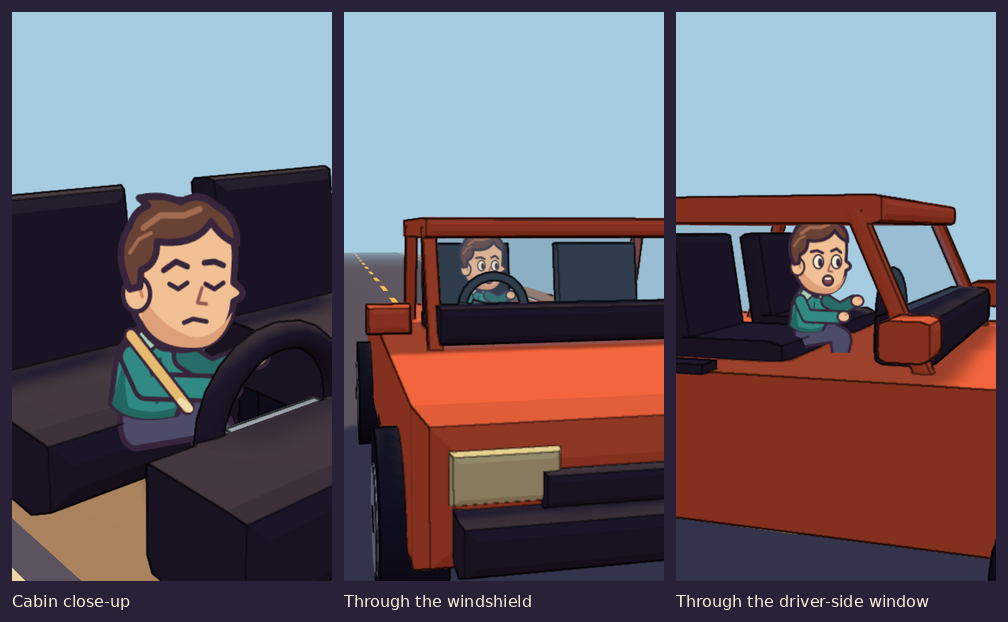
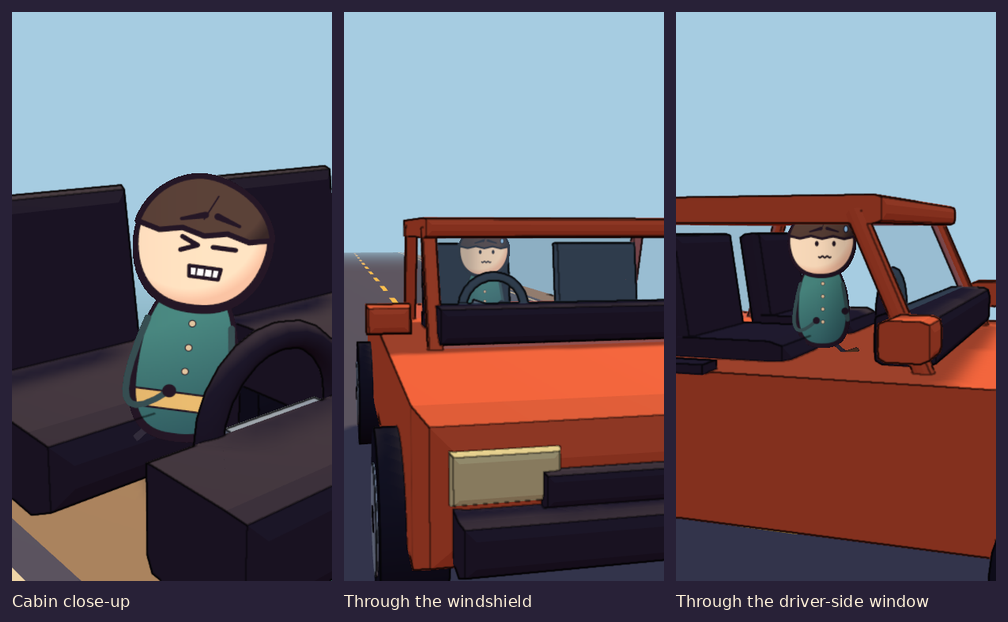
Use the Niagara toon pipeline for the guardrail driver

Changed region(s): [[0.0923, 0.2749, 0.2768, 0.7331], [0.7688, 0.336, 0.8611, 0.5804], [0.4306, 0.3666, 0.5228, 0.4887]]

diff --git a/videos/guardrail-crumple/assets/preview.html b/videos/guardrail-crumple/assets/preview.html
@@ -3,94 +3,11 @@
 <meta charset="utf-8">
 <title>Guardrail asset review</title>
 <style>
-  body { margin: 0; background: #241e32; color: #fff3d5; font: 16px system-ui; }
-  main { display: grid; grid-template-columns: repeat(4, 240px); gap: 8px; padding: 8px; }
-  figure { margin: 0; }
-  canvas { display: block; width: 240px; height: 426px; }
-  figcaption { padding: 6px 2px; }
+  body { margin: 20px; background: #282137; color: #fff2da; font: 16px system-ui; }
+  img { max-width: 100%; height: auto; display: block; }
 </style>
-<script type="importmap">
-{"imports":{"three":"../../../../animated-shorts-runtime/node_modules/three/build/three.module.js"}}
-</script>
-<main></main>
-<script type="module">
-import * as THREE from 'three';
-import {createCar, createCliffRoad, createDischargedSteel, createGuardrail} from './models.mjs';
-import {createDriver, createImpactEffect} from './cards.mjs';
-
-const renderer = new THREE.WebGLRenderer({antialias: true, preserveDrawingBuffer: true});
-renderer.setSize(480, 852);
-renderer.shadowMap.enabled = true;
-renderer.shadowMap.type = THREE.PCFSoftShadowMap;
-const scene = new THREE.Scene();
-scene.background = new THREE.Color('#a6cce1');
-scene.fog = new THREE.Fog('#a6cce1', 26, 75);
-const fill = new THREE.HemisphereLight('#dbe5ff', '#8d605d', 1.7);
-const sun = new THREE.DirectionalLight('#ffe3ae', 2.4);
-sun.position.set(8, 15, -7);
-sun.castShadow = true;
-sun.shadow.mapSize.set(1024, 1024);
-Object.assign(sun.shadow.camera, {left: -16, right: 16, top: 16, bottom: -16});
-sun.shadow.normalBias = .02;
-scene.add(fill, sun, createCliffRoad());
-const car = createCar();
-const driver = createDriver();
-const rail = createGuardrail({curved: true});
-const strip = createDischargedSteel();
-const impact = createImpactEffect();
-car.interior.add(driver.card);
-rail.head.add(strip.root);
-rail.root.position.x = 3.26;
-scene.add(car.root, rail.root, impact.root);
-const camera = new THREE.PerspectiveCamera(39, 480 / 852, .04, 140);
-camera.layers.enable(3);
-
-function capture(label, position, target) {
-  camera.position.set(...position);
-  camera.lookAt(...target);
-  camera.updateMatrixWorld();
-  driver.faceCamera(camera);
-  renderer.render(scene, camera);
-  const canvas = document.createElement('canvas');
-  canvas.width = 480;
-  canvas.height = 852;
-  canvas.getContext('2d').drawImage(renderer.domElement, 0, 0);
-  const figure = document.createElement('figure');
-  const caption = document.createElement('figcaption');
-  caption.textContent = label;
-  figure.append(canvas, caption);
-  document.querySelector('main').append(figure);
-}
-
-rail.root.visible = false;
-car.root.position.set(4.2, -.8, 9.4);
-car.root.rotation.set(.24, .72, -.2);
-capture('Cliff and opening skid', [13, 8, -2], [2, -2, 10]);
-
-rail.root.visible = true;
-rail.setTerminal({modern: false});
-rail.oldEnd.visible = false;
-rail.setBeam({flex: .25, contact: 7.5});
-car.root.position.set(2.19, .01, 7.1);
-car.root.rotation.set(0, .06, 0);
-impact.root.position.set(3.14, .5, 7.3);
-impact.setProgress(.32);
-capture('Side hit and local flex', [7.6, 3.8, 1.9], [2.45, .55, 7]);
-
-impact.setProgress(0);
-rail.setTerminal({modern: false});
-car.root.position.set(3.12, .01, -2.03);
-car.root.rotation.set(0, 0, 0);
-driver.setPose('brace', true);
-car.bumper.rotation.y = .16;
-capture('Exposed terminal and driver', [-.42, 2.22, 1.5], [3.25, .8, -1.33]);
-
-rail.setTerminal({travel: 3.1, open: true});
-strip.setLength(3.1);
-driver.setPose('peek');
-car.root.position.set(3.12, .01, .92);
-car.bumper.rotation.y = 0;
-capture('Sliding head and steel strip', [5.65, 2.05, 4.35], [3.00, .56, 3]);
-document.body.dataset.status = 'rendered';
-</script>
+<h1>Guardrail asset review</h1>
+<img src="../previews/remotion-first-stills.png" alt="Five Remotion stills of the guardrail scene">
+<h2>Driver and window views</h2>
+<img src="../previews/driver-window-review.png" alt="Driver in the cabin, through the windshield, and through the driver-side window">
 </html>

diff --git a/videos/guardrail-crumple/assets/driver.ts b/videos/guardrail-crumple/assets/driver.ts
@@ -1,0 +1,88 @@
+import * as THREE from 'three';
+import {bodyFront, Pen, PARENT, type Expr, type Outfit} from '../../../templates/bridge/toon';
+import {cardShade, CARD_K} from '../../../templates/bridge/cardshade';
+import {NOINK} from '../../../templates/bridge/ink';
+
+type Pose = 'steer' | 'brace' | 'peek';
+
+const outfit: Outfit = {
+  ...PARENT, jacket: '#498982', pants: '#444758', hair: '#594138', buttons: '#dfc5a0',
+};
+
+export function createDriver() {
+  const canvas = document.createElement('canvas');
+  canvas.width = 600;
+  canvas.height = 1000;
+  const context = canvas.getContext('2d')!;
+  const texture = new THREE.CanvasTexture(canvas);
+  texture.colorSpace = THREE.SRGBColorSpace;
+  // Use the lower portion of the shared standing-card canvas for the seated pose.
+  texture.repeat.y = .58;
+  const material = cardShade(new THREE.MeshLambertMaterial({
+    map: texture, alphaTest: .46, side: THREE.DoubleSide,
+  }));
+  const card = new THREE.Mesh(new THREE.PlaneGeometry(.66, .638), material);
+  card.layers.set(NOINK);
+  card.position.set(-.4, 1.16, .075);
+  card.receiveShadow = true;
+  card.onBeforeRender = renderer => {
+    CARD_K.uPx.value = (renderer.getRenderTarget()?.height ?? renderer.domElement.height) / 1920;
+  };
+
+  const worldPosition = new THREE.Vector3();
+  const toCamera = new THREE.Vector3();
+  const carRotation = new THREE.Quaternion();
+  const worldFacing = new THREE.Quaternion();
+  const up = new THREE.Vector3(0, 1, 0);
+  let pose: Pose = 'steer';
+  let belt = false;
+  let steering = -.32;
+  let facing: -1 | 0 | 1 = 0;
+
+  function redraw() {
+    const expression: Record<Pose, Expr> = {steer: 'nervous', brace: 'pained', peek: 'pained'};
+    context.clearRect(0, 0, canvas.width, canvas.height);
+    bodyFront(new Pen(context), {...outfit, sash: belt ? '#e6bb70' : undefined}, {
+      mode: 'sit',
+      expr: expression[pose],
+      blink: pose === 'brace',
+      facing,
+      look: facing * .65,
+      headTilt: pose === 'peek' ? -5 : 0,
+      tilt: pose === 'brace' ? facing * 8 : 0,
+      steering,
+      seed: 9,
+    });
+    texture.needsUpdate = true;
+  }
+
+  function setPose(nextPose: Pose, fastened = false, wheelAngle = -.32) {
+    pose = nextPose;
+    belt = fastened;
+    steering = wheelAngle;
+    redraw();
+  }
+
+  function faceCamera(camera: THREE.Camera) {
+    card.getWorldPosition(worldPosition);
+    camera.getWorldPosition(toCamera).sub(worldPosition);
+    if (card.parent) card.parent.getWorldQuaternion(carRotation).invert();
+    else carRotation.identity();
+    toCamera.applyQuaternion(carRotation);
+    card.quaternion.copy(worldFacing.setFromAxisAngle(up, Math.atan2(toCamera.x, toCamera.z)));
+    const nextFacing = toCamera.x < -.6 ? 1 : toCamera.x > .6 ? -1 : 0;
+    if (nextFacing !== facing) {
+      facing = nextFacing;
+      redraw();
+    }
+  }
+
+  redraw();
+  return {
+    card, setPose, faceCamera,
+    dispose() {
+      texture.dispose();
+      material.dispose();
+    },
+  };
+}

diff --git a/templates/bridge/toon.ts b/templates/bridge/toon.ts
@@ -434,7 +434,7 @@ const BUILD: Record<Build, { a: number; torso: number; legs: number; tw: number 
 
 export type FrontOpts = {
   phase?: number; expr?: Expr; mode?: "march" | "stroll" | "stand" | "sit" | "fall"; look?: number; blink?: boolean | number; lift?: number;
-  prop?: Prop; tilt?: number; headTilt?: number; wave?: number;
+  prop?: Prop; tilt?: number; headTilt?: number; wave?: number; steering?: number;
   /** canvas angle the key light comes FROM (painted crescent + thick outline side) */
   light?: number; facing?: -1 | 0 | 1; seed?: number;
 };
@@ -510,7 +510,14 @@ export const bodyFront = (p: Pen, o: Outfit, opts: FrontOpts) => {
   const rifle = !!o.rifle && (mode === "march" || mode === "stand" || mode === "stroll");
   type Arm = { pts: [P2, P2, P2]; front: boolean };
   const arms: Arm[] = [];
-  if (mode === "sit") for (const side of [-1, 1]) arms.push({ pts: [sh(side), [tcx + side * (1.1 * T.a + 6 * u), sh(side)[1] + 0.4 * HH], [tcx + side * (1.2 * T.a + 10 * u), torsoBot + 0.04 * HH]], front: false });
+  if (mode === "sit" && opts.steering !== undefined) {
+    const angle = opts.steering;
+    for (const side of [-1, 1]) {
+      const shoulder = sh(side);
+      const hand: P2 = [tcx + (14 * facing + side * 23 * Math.cos(angle)) * u, chin + (61 + side * 23 * Math.sin(angle)) * u];
+      arms.push({ pts: [shoulder, [shoulder[0] + side * 8 * u, hand[1] + 10 * u], hand], front: true });
+    }
+  } else if (mode === "sit") for (const side of [-1, 1]) arms.push({ pts: [sh(side), [tcx + side * (1.1 * T.a + 6 * u), sh(side)[1] + 0.4 * HH], [tcx + side * (1.2 * T.a + 10 * u), torsoBot + 0.04 * HH]], front: false });
   else if (mode === "fall") for (const side of [-1, 1]) arms.push({ pts: [sh(side), [tcx + side * (1.15 * T.a + 12 * u), sh(side)[1] - 0.25 * HH], [tcx + side * (1.3 * T.a + 24 * u), sh(side)[1] - 0.68 * HH]], front: false });
   else {
     arms.push({ pts: prop === "shako" ? hang(-1, 0) : hang(-1, -sw), front: false });

diff --git a/videos/guardrail-crumple/assets/FirstStills.tsx b/videos/guardrail-crumple/assets/FirstStills.tsx
@@ -4,7 +4,8 @@ import * as THREE from 'three';
 import {EffectComposer, RenderPass} from 'postprocessing';
 import {InkPass} from '../../../templates/bridge/ink';
 import {createCar, createCliffRoad, createDischargedSteel, createGuardrail} from './models.mjs';
-import {createDriver, createImpactEffect} from './cards.mjs';
+import {createImpactEffect} from './cards.mjs';
+import {createDriver} from './driver';
 
 export const FIRST_STILLS_COUNT = 7;
 
@@ -105,6 +106,7 @@ export function FirstStills() {
     composer.render();
     return () => {
       composer.dispose();
+      driver.dispose();
       sun.shadow.dispose();
       scene.traverse(object => {
         if (object instanceof THREE.Mesh) object.geometry.dispose();

diff --git a/videos/guardrail-crumple/ASSET-MANIFEST.md b/videos/guardrail-crumple/ASSET-MANIFEST.md
@@ -8,11 +8,11 @@ Coordinates are in approximate meters, Y up. Road grade is Y=0. Traffic travels 
 |---|---|---|---|
 | 1–10 | Cliff bend, road markings, gravel shoulder, layered rock wall, river and trees | [models.mjs](assets/models.mjs), `createCliffRoad()`, `roadCenter(z)` | Origin on the approach centerline. Six-meter road, 14-meter drop. Use background fog to soften the far end. |
 | 1, 3, 5–6, 8, 10 | Compact car and cabin | [models.mjs](assets/models.mjs), `createCar()` | Root at ground beneath the car center, nose +Z. Wheels spin on local X, front pivots steer on Y, bumper group can yaw or retract. Exterior can be hidden for cabin framing. Cabin has seats, dash, steering wheel and belt. |
-| 1, 3, 5–6, 8, 10 | 2D toon driver | [cards.mjs](assets/cards.mjs), `createDriver()` | Attach card to car interior at its supplied offset. Call `faceCamera(camera)` after setting the shot camera. Poses are `steer`, `brace`, and `peek`; use the card belt for the impact close-up. Keep the face inside the window opening from driving cameras. Card on NOINK layer 3. |
+| 1, 3, 5–6, 8, 10 | 2D toon driver | [driver.ts](assets/driver.ts), `createDriver()`, using the shared toon drawing and card lighting | Attach card to car interior at its supplied offset. Call `faceCamera(camera)` after setting the shot camera. Poses are `steer`, `brace`, and `peek`; use the card belt for the impact close-up. Keep the face inside the window opening from driving cameras. Card on NOINK layer 3. |
 | 2–5 | Corrugated beam, post spacers and old terminal | [models.mjs](assets/models.mjs), `createGuardrail()` | Root at leading edge. Beam center Y=0.68. Use `setTerminal({modern: false})`; apply `setBeam({flex, contact})` afterward for the side shot. Posts are separate children for the assembly beat. |
 | 7–10 | Energy-absorbing impact head, housing and cutaway guides | [models.mjs](assets/models.mjs), `createGuardrail()` | Call `setTerminal({travel, open})` with travel in meters. Switch to open for shot 9. The input end of the beam advances with the impact head. Keep the bumper in contact with the front face throughout the travel. |
 | 9–10 | Flattened steel strip | [models.mjs](assets/models.mjs), `createDischargedSteel()` | Parent to the head during the cutaway. Set length from the same travel value. The ribbon exits toward the field side and curls downward. Treat its curve as art direction, and lock its final pose for the stopped shot. |
 | 1, 3, 5, 8 | Dust and impact sparks | [cards.mjs](assets/cards.mjs), `createImpactEffect()` | Place at tire or impact point, rotate group toward camera, drive normalized progress from 0 to 1. Layer 3. |
 | All | Lighting, sky, shadows, outlines, audio generation | Existing [bridge template](../../templates/bridge/) and [audio helpers](../../templates/audio/) | Apply world ink to layer 0. Light and tint the driver with the existing card treatment. Use the existing narrator and mix. |
 
-The 3D geometry checks passed in Three.js 0.170. Run the [review page](assets/preview.html) in the workspace to inspect the supplied poses. Use real Remotion first-stills to approve the final look and camera contact before animation.
+The 3D geometry checks passed in Three.js 0.170. Open the [review page](assets/preview.html) or render the Remotion first-stills entry to inspect the supplied poses. Use real Remotion first-stills to approve the final look and camera contact before animation.

diff --git a/videos/guardrail-crumple/CODEX-HANDOFF.md b/videos/guardrail-crumple/CODEX-HANDOFF.md
@@ -1,6 +1,6 @@
 # Guardrail asset handoff
 
-Use the [Remotion first stills](previews/remotion-first-stills.png) for visual review. The five views cover the cliff hook, side hit, old rail end, extrusion cutaway and 2D driver. The [driver review sheet](previews/driver-window-review.png) shows the redesigned driver in the cabin and through the windshield and driver-side window. Use those exterior views as visibility and framing references for the driving animation. The earlier [asset contact sheet](previews/asset-contact-sheet.png) shows the initial model pass with simplified lighting.
+Use the [Remotion first stills](previews/remotion-first-stills.png) for visual review. The five views cover the cliff hook, side hit, old rail end, extrusion cutaway and 2D driver. The [driver review sheet](previews/driver-window-review.png) shows the redesigned driver in the cabin and through the windshield and driver-side window. Use those exterior views as visibility and framing references for the driving animation. The current driver uses the shared toon drawing and card lighting named in the [Niagara character brief](../niagara-barrel/assets/ANNIE-DESIGN.md). The published Niagara branch contains that brief and prop assets. The earlier [asset contact sheet](previews/asset-contact-sheet.png) shows the initial model pass with simplified lighting.
 
 The first-stills composition is `GuardrailFirstStills`. With the existing Remotion runtime dependencies available to the entry point, register [review-entry.tsx](assets/review-entry.tsx) or import [FirstStills](assets/FirstStills.tsx) into the runtime. Render frames 0–6 at 405×720. Frames 5–6 are the windshield and driver-side window checks. The reviewed frames rendered in Remotion 4.0.544 with Three.js 0.170, software WebGL and the shared bridge ink pass.
 

diff --git a/videos/guardrail-crumple/CLAUDE-PROMPT.md b/videos/guardrail-crumple/CLAUDE-PROMPT.md
@@ -2,7 +2,7 @@
 
 Read [the story](STORY.md), [the narration](SCRIPT.md), and [the timed shot list](SHOTLIST.md). Use [Niagara Falls](../niagara-barrel/CLAUDE-PROMPT.md) as the production reference and follow the [repo rendering guide](../../SKILL.md) and [style bible](../../references/STYLE_BIBLE.md).
 
-Keep the driver a fully drawn 2D toon character at the detail level of Annie in Niagara. Preserve the swept hair, shaped face, collared teal jacket and distinct steering, bracing and peek expressions. Show his face and upper body through the windshield or driver-side window while the car is moving. Use the two driving views in the first-stills sheet as framing references. Build the cliff, road, car, and guardrails in 3D with dark toon outlines and shaded surfaces. Reuse the same car and bend across the three setups. Match the replay angles so the viewer can immediately spot what changed. Use the existing Three.js/Remotion pipeline and narrator.
+Keep the driver a fully drawn 2D toon character at the detail level of Annie in Niagara. Reuse the seated shared-toon driver in `assets/driver.ts` with its teal jacket and steering, bracing and peek expressions. Set wheel rotation and pass the same angle as the third argument to `setPose` for the driver’s hands. Show his face and upper body through the windshield or driver-side window while the car is moving. Use the two driving views in the first-stills sheet as framing references. Build the cliff, road, car, and guardrails in 3D with dark toon outlines and shaded surfaces. Reuse the same car and bend across the three setups. Match the replay angles so the viewer can immediately spot what changed. Use the existing Three.js/Remotion pipeline and narrator.
 
 ## Animation and rigging
 
